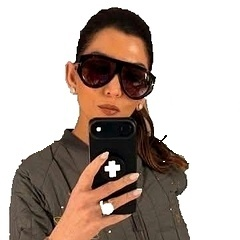
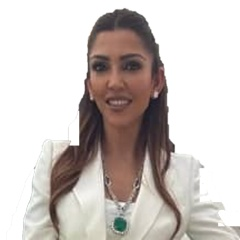
Replace Isabel Flores photo with white background

diff --git a/standalone/about.html b/standalone/about.html
@@ -330,7 +330,7 @@ footer .lic{margin-top:10px;font-style:italic;color:#8d89a0}
       <small>SVP – Development</small>
     </div>
     <div class="tm">
-      <img src="images/team-isabel-flores.jpg?v=2" alt="Isabel Flores" width="150" height="150" loading="lazy">
+      <img src="images/team-isabel-flores.jpg?v=3" alt="Isabel Flores" width="150" height="150" loading="lazy">
       <h3>Isabel Flores</h3>
       <hr>
       <small>Partner</small>

diff --git a/about.html b/about.html
@@ -99,7 +99,7 @@
       <small>SVP – Development</small>
     </div>
     <div class="tm">
-      <img src="images/team-isabel-flores.jpg?v=2" alt="Isabel Flores" width="150" height="150" loading="lazy">
+      <img src="images/team-isabel-flores.jpg?v=3" alt="Isabel Flores" width="150" height="150" loading="lazy">
       <h3>Isabel Flores</h3>
       <hr>
       <small>Partner</small>
